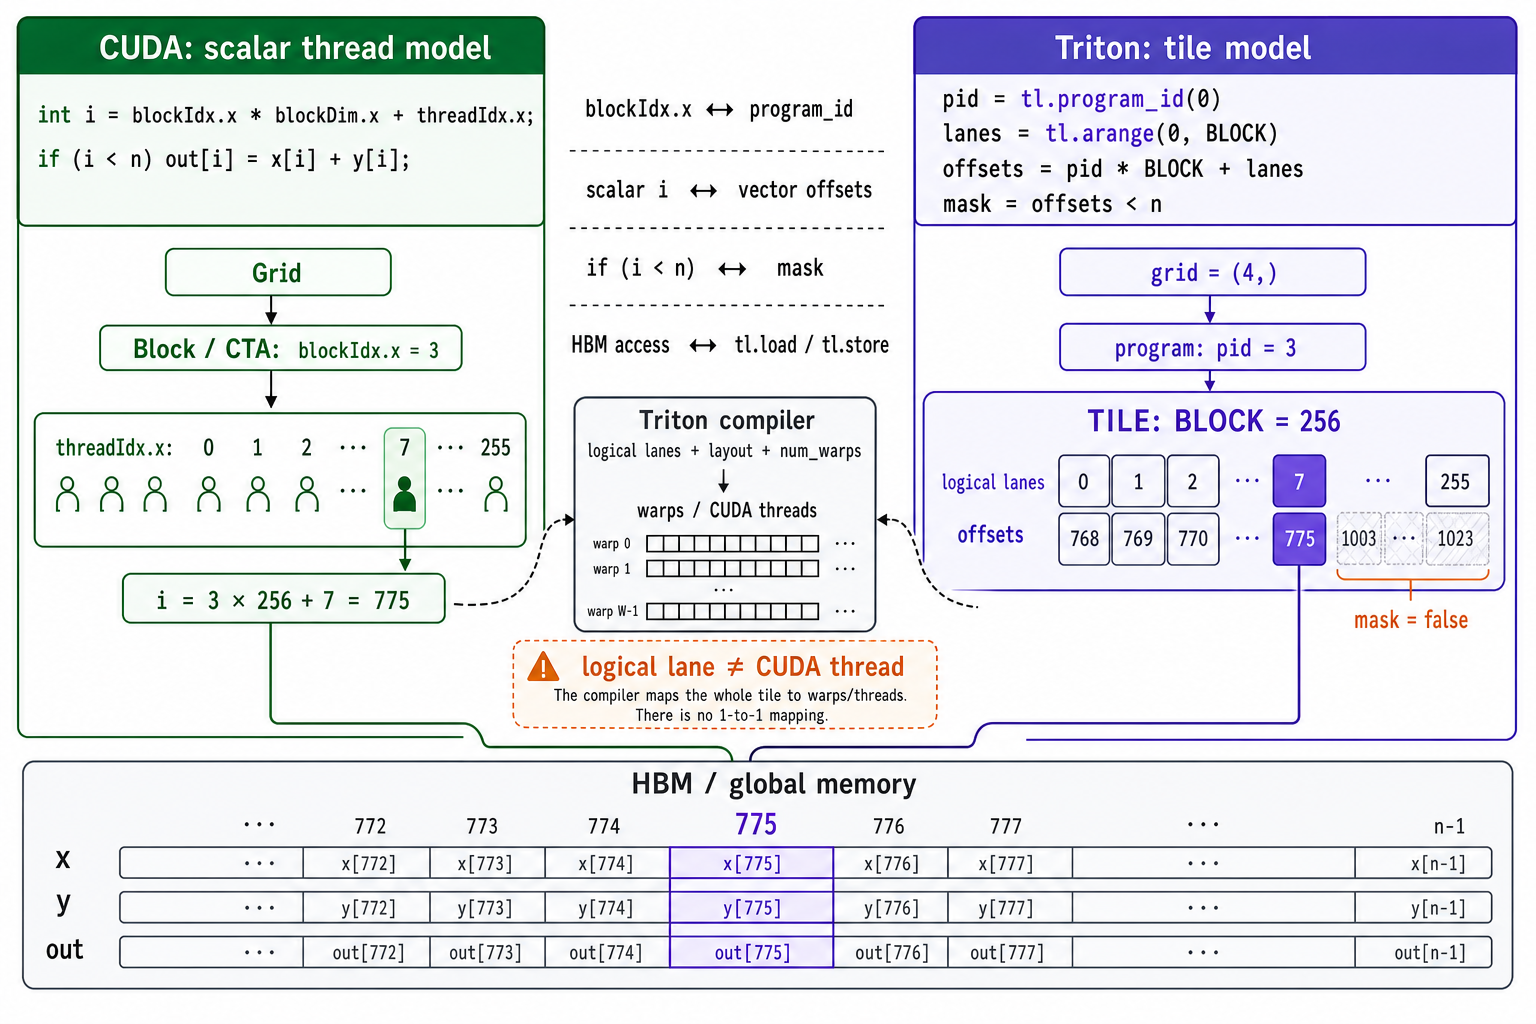
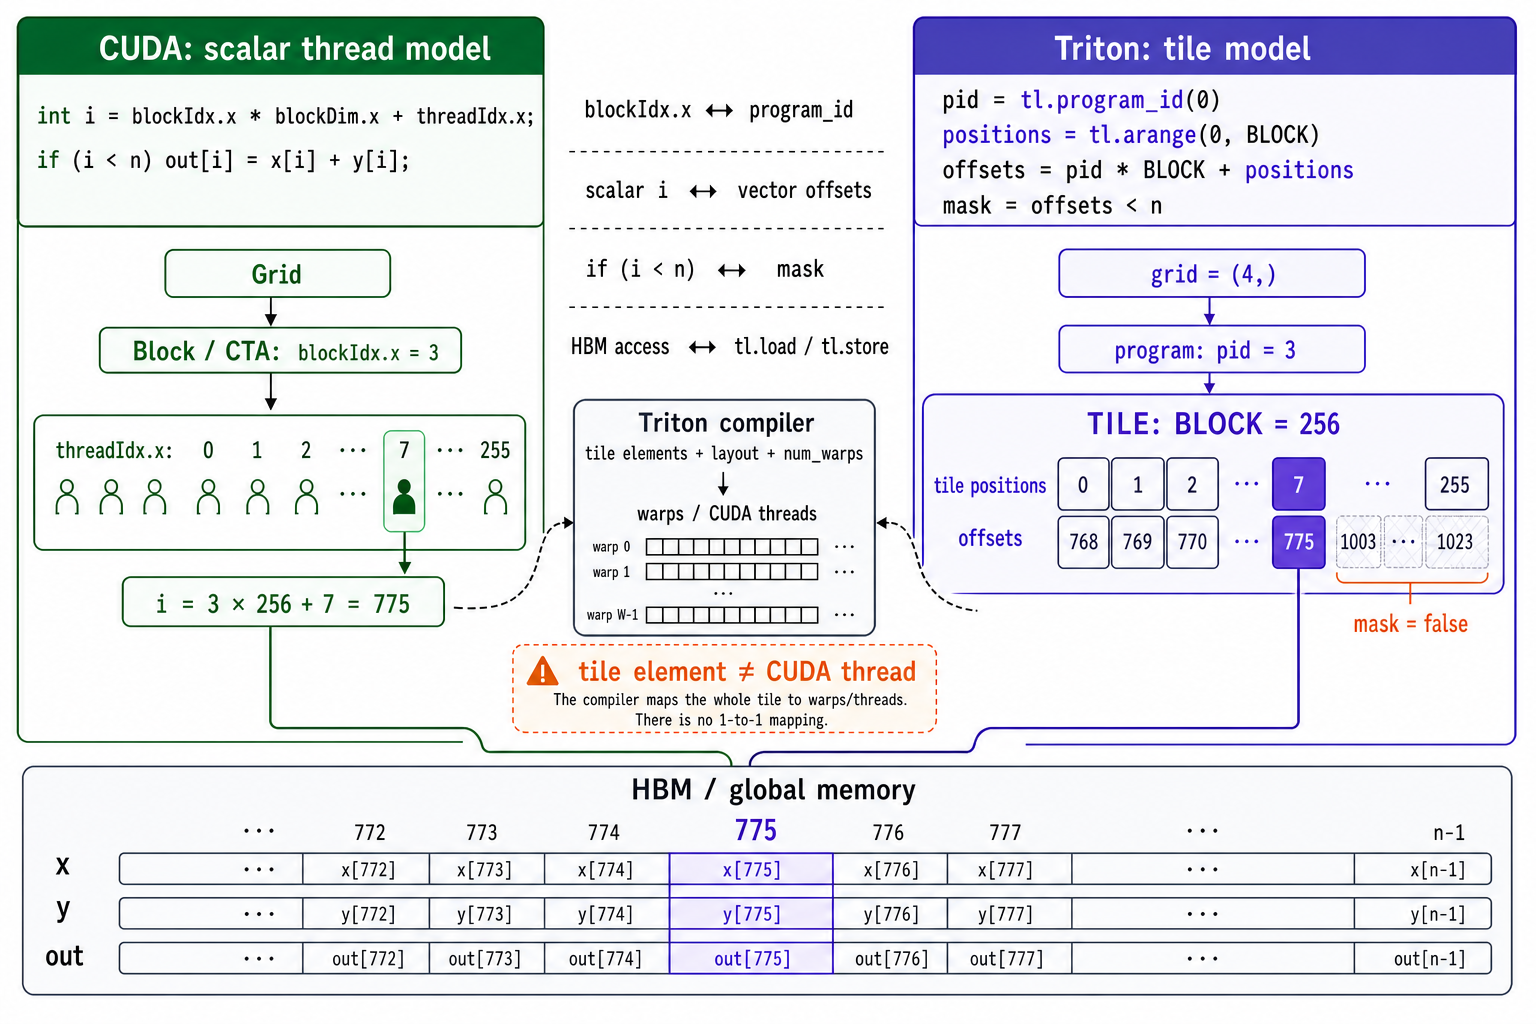
update md

diff --git a/my-sglang/examples/triton/03_row_softmax.py b/my-sglang/examples/triton/03_row_softmax.py
@@ -30,18 +30,18 @@ def row_softmax_kernel(
     row_idx = tl.program_id(axis=0)
     # tl.arange 要求二次幂范围；BLOCK_SIZE 是不小于真实列数的最小二次幂。
     col_offsets = tl.arange(0, BLOCK_SIZE)
-    # 例如 n_cols=781、BLOCK_SIZE=1024 时，781..1023 是 padding lanes。
+    # 例如 n_cols=781、BLOCK_SIZE=1024 时，781..1023 是 padding positions。
     col_mask = col_offsets < n_cols
 
     # stride 是相邻两行起点之间相隔的元素数，不是字节数。
     input_row_ptr = input_ptr + row_idx * input_row_stride
-    # padding lane 读成 -inf，因为 exp(-inf)=0，不会影响最大值或 Softmax 分母。
+    # padding position 读成 -inf，因为 exp(-inf)=0，不会影响最大值或 Softmax 分母。
     row = tl.load(input_row_ptr + col_offsets, mask=col_mask, other=-float("inf"))
 
     # 先减最大值避免 exp 溢出；tl.max/tl.sum 都在当前 program 的 tile 内归约。
-    # tl.max 的结果是当前整行的一个标量，并广播到每个 logical lane。
+    # tl.max 的结果是当前整行的一个标量，并广播到每个 tile element。
     row_minus_max = row - tl.max(row, axis=0)
-    # numerator 仍是逐列向量；padding lane 的值为 0。
+    # numerator 仍是逐列向量；padding position 的值为 0。
     numerator = tl.exp(row_minus_max)
     # denominator 是整行指数和标量，除法时广播到所有列。
     denominator = tl.sum(numerator, axis=0)

diff --git a/my-sglang/examples/triton/01_vector_add.py b/my-sglang/examples/triton/01_vector_add.py
@@ -16,13 +16,13 @@ def vector_add_kernel(x_ptr, y_ptr, output_ptr, n_elements, BLOCK_SIZE: tl.const
     """一个 program instance 负责连续的 ``BLOCK_SIZE`` 个元素。"""
     # 与 CUDA 的 blockIdx.x 最接近：它标识当前 program，而非单个 thread。
     program_id = tl.program_id(axis=0)
-    # tl.arange 产生逻辑 lane。它描述一个 tile，不等价于创建 BLOCK_SIZE 个 CUDA threads。
+    # tl.arange 产生 tile 内的数据位置。它不等价于创建 BLOCK_SIZE 个 CUDA threads。
     # 例如 program_id=3、BLOCK_SIZE=256 时，offsets 是 768..1023。
     offsets = program_id * BLOCK_SIZE + tl.arange(0, BLOCK_SIZE)
-    # 最后一个 tile 往往超过向量末尾；mask=False 的 lane 禁止访问显存。
+    # 最后一个 tile 往往超过向量末尾；mask=False 的 tile 位置禁止访问显存。
     mask = offsets < n_elements
-    # 指针加 offsets 是逐 lane 的 global-memory 访问。other 只供 mask=False 的 lane 使用，
-    # 防止无效读参与后续计算；真正的结果不会由这些 lane 写回。
+    # 指针加 offsets 是逐元素的 global-memory 访问。other 只供 mask=False 的位置使用，
+    # 防止无效读参与后续计算；这些位置不会写回。
     x = tl.load(x_ptr + offsets, mask=mask, other=0.0)
     y = tl.load(y_ptr + offsets, mask=mask, other=0.0)
     # 一个 kernel 内完成 load -> add -> store，没有 x + y 的中间 HBM 数组。

diff --git a/my-sglang/examples/triton/07_attention.py b/my-sglang/examples/triton/07_attention.py
@@ -53,7 +53,7 @@ def single_query_attention_kernel(
     # 例如 n_heads=4、program_id=6 对应 batch_idx=1、head_idx=2。
     batch_idx = program_id // n_heads
     head_idx = program_id % n_heads
-    # BLOCK_D 向上补齐到二次幂；d_mask 屏蔽超出真实 head_dim 的 lanes。
+    # BLOCK_D 向上补齐到二次幂；d_mask 屏蔽超出真实 head_dim 的 tile positions。
     offs_d = tl.arange(0, BLOCK_D)
     d_mask = offs_d < head_dim
 
@@ -87,7 +87,7 @@ def single_query_attention_kernel(
             + offs_n[:, None] * stride_kn
             + offs_d[None, :] * stride_kd
         )
-        # context 与 head-dim 两个方向都要 mask；无效 D lane 补 0，不影响点积。
+        # context 与 head-dim 两个方向都要 mask；无效 D 位置补 0，不影响点积。
         kv_mask = n_mask[:, None] & d_mask[None, :]
         keys = tl.load(k_ptrs, mask=kv_mask, other=0.0).to(tl.float32)
         # 沿 D 维归约得到当前 tile 的 [BLOCK_N] scores，再乘 1/sqrt(D)。
@@ -131,7 +131,7 @@ def single_query_attention_kernel(
         + head_idx * stride_oh
         + offs_d * stride_od
     )
-    # BLOCK_D 的 padding lane 不属于真实输出，必须用 d_mask 丢弃。
+    # BLOCK_D 的 padding position 不属于真实输出，必须用 d_mask 丢弃。
     tl.store(output_ptrs, output, mask=d_mask)
 
 

diff --git a/my-sglang/examples/triton/02_fused_elementwise.py b/my-sglang/examples/triton/02_fused_elementwise.py
@@ -25,10 +25,10 @@ def fused_silu_kernel(x_ptr, bias_ptr, output_ptr, n_elements, BLOCK_SIZE: tl.co
     pid = tl.program_id(axis=0)
     # 例如 pid=3、BLOCK_SIZE=256 时，当前 program 尝试处理 768..1023。
     offsets = pid * BLOCK_SIZE + tl.arange(0, BLOCK_SIZE)
-    # n_elements 不一定是 BLOCK_SIZE 的整数倍，尾 tile 的越界 lane 必须屏蔽。
+    # n_elements 不一定是 BLOCK_SIZE 的整数倍，尾 tile 的越界位置必须屏蔽。
     mask = offsets < n_elements
 
-    # 两次 load 从 HBM 读取相同位置的 x 和 bias；无效 lane 补 0，且不会写回。
+    # 两次 load 从 HBM 读取相同位置的 x 和 bias；无效 tile 位置补 0，且不会写回。
     x = tl.load(x_ptr + offsets, mask=mask, other=0.0)
     bias = tl.load(bias_ptr + offsets, mask=mask, other=0.0)
     # z 是融合后的中间值，只保留在当前 program 内，不分配与 z 等大的 HBM tensor。

diff --git a/my-sglang/examples/triton/04_rmsnorm.py b/my-sglang/examples/triton/04_rmsnorm.py
@@ -34,9 +34,9 @@ def rmsnorm_kernel(
     col_offsets = tl.arange(0, BLOCK_SIZE)
     col_mask = col_offsets < n_cols
 
-    # 用行号乘 stride 找到这一行首地址，再为每个 logical lane 加列偏移。
+    # 用行号乘 stride 找到这一行首地址，再为每个 tile position 加列偏移。
     input_row_ptr = input_ptr + row_idx * input_row_stride
-    # padding lane 读 0，使它的平方为 0，不会污染平方和。
+    # padding position 读 0，使它的平方为 0，不会污染平方和。
     x = tl.load(input_row_ptr + col_offsets, mask=col_mask, other=0.0)
 
     # 即使输入以后改成 FP16/BF16，也用 FP32 计算平方和，减少归约误差。
